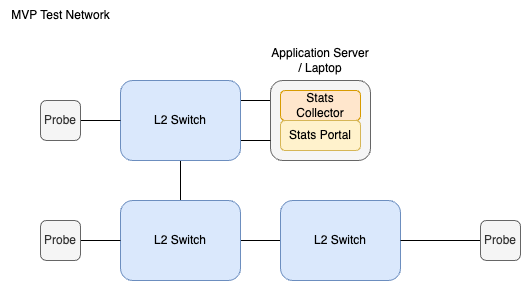
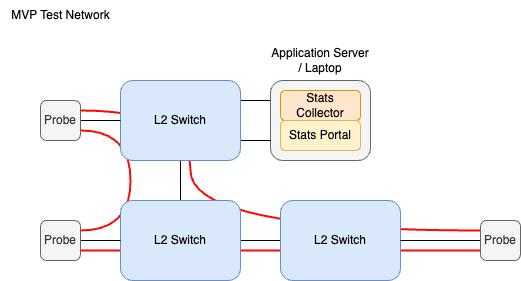
Updated README and diagrams

diff --git a/README.md b/README.md
@@ -9,5 +9,12 @@ A (hopefully scalable) network monitoring tool used to determine packet loss and
 ### Proof of Concept Testing environment
 ![Base-Diagram](Diagrams/Aquila-concept.png)
 
+The probes would run a custom program to send tcp-based icmp packets across a given network to every other probe's LAN interface, if a packet is sent to a destination but not recieved, the deviation is recorded and sent to a logging service and sent to the network matrix so an engineer is aware of the change in network state.
+
+The packet flow of the probes would act as normal traffic on the network to simulate live traffic, so we've got an accurate way of depicting live traffic (Red) losses on the network (Black).
+
+
 ### Realistic Testing environment
 ![Base-Management-Diagram](Diagrams/Aquila-mgmt-concept.png)
+
+To further test the application we can move to a more robust and expected enterprise-level network using layer3 switches to act as a peering exchange taking in client/member traffic (which the probes would replicate) from access switches making use of the management network to access the other services like the stats collector and portal.
